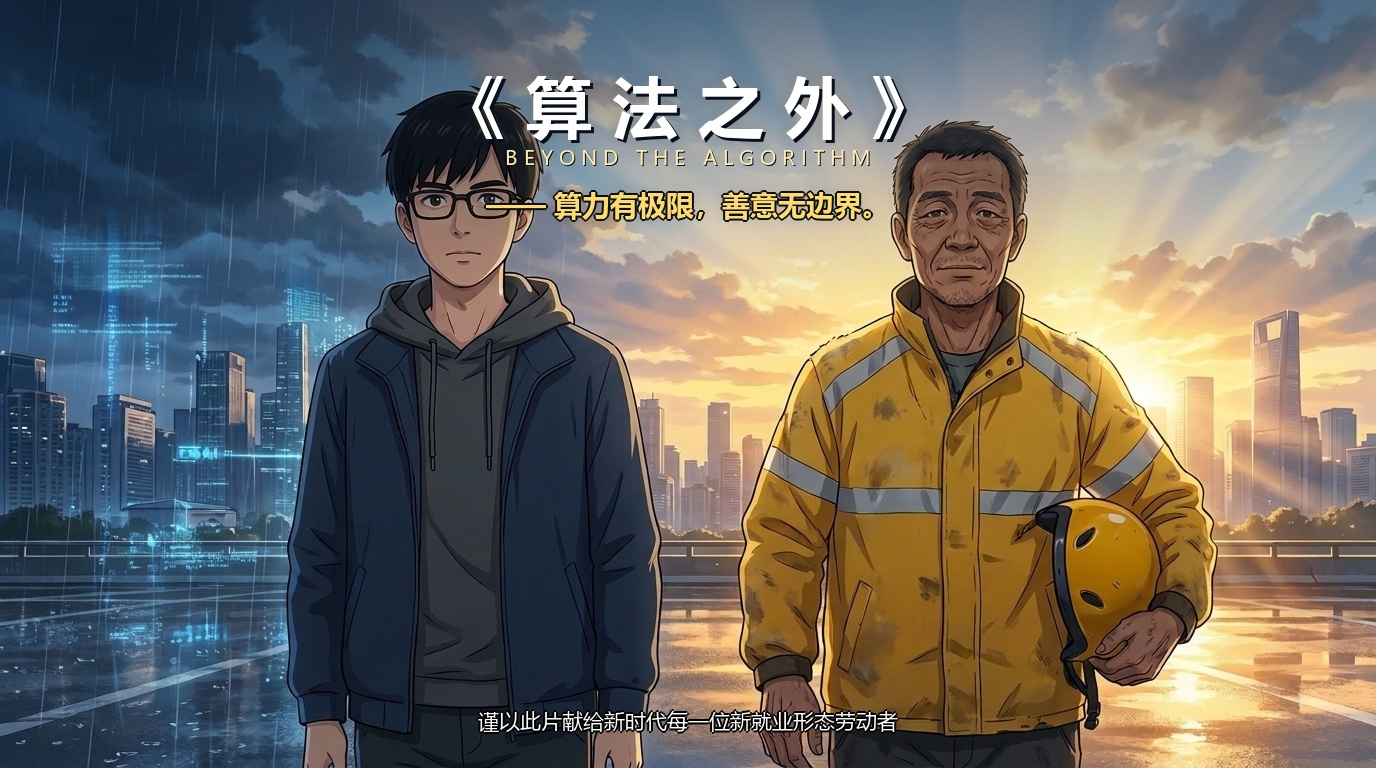
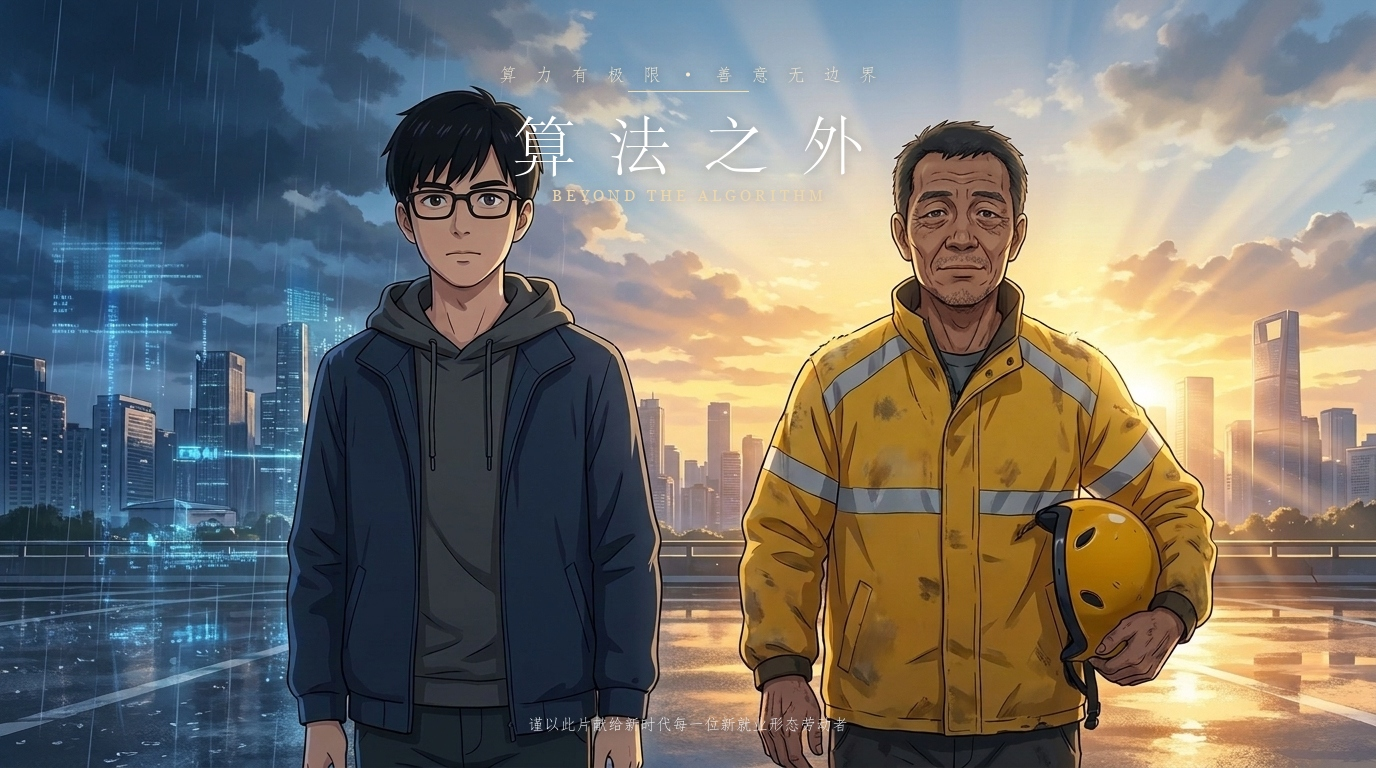
style: redesign movie poster with elegant cinematic typography and zero character occlusion

Changed region(s): [[0.25, 0.0, 1.0, 0.3125], [0.3438, 0.9062, 0.6562, 0.9688], [0.1562, 0.0312, 0.25, 0.125]]

diff --git a/build/compose_cinema_poster.py b/build/compose_cinema_poster.py
@@ -1,0 +1,99 @@
+# -*- coding: utf-8 -*-
+from PIL import Image, ImageDraw, ImageFont, ImageFilter
+import os
+
+bg_path = 'assets/images/poster_luyuan_laoliu_clean.jpg'
+out_path = 'assets/images/poster_luyuan_laoliu_final.jpg'
+
+im = Image.open(bg_path).convert('RGBA')
+width, height = im.size
+
+# High-end cinematic fonts
+# STSONG.TTF (华文宋体) or simsun.ttc (中易宋体)
+font_song_bold = 'C:/Windows/Fonts/STSONG.TTF' if os.path.exists('C:/Windows/Fonts/STSONG.TTF') else 'C:/Windows/Fonts/simsun.ttc'
+font_fangsong = 'C:/Windows/Fonts/simfang.ttf'
+font_en = 'C:/Windows/Fonts/georgia.ttf' if os.path.exists('C:/Windows/Fonts/georgia.ttf') else 'C:/Windows/Fonts/times.ttf'
+font_dengxian = 'C:/Windows/Fonts/Deng.ttf'
+
+# Font Sizes for refined cinematic scale
+# Characters should be dominant, title should be elegant, not overbearing
+f_slogan = ImageFont.truetype(font_fangsong, 18)
+f_title = ImageFont.truetype(font_song_bold, 64)
+f_en = ImageFont.truetype(font_en, 15)
+f_footer = ImageFont.truetype(font_fangsong, 16)
+
+# Texts
+slogan_text = "算  力  有  极  限  ·  善  意  无  边  界"
+title_text = "算  法  之  外"
+en_text = "B E Y O N D   T H E   A L G O R I T H M"
+footer_text = "谨以此片献给新时代每一位新就业形态劳动者"
+
+# Subtle top ambient sky gradient (very gentle, filmic contrast without looking dark)
+vignette = Image.new('RGBA', (width, height), (0, 0, 0, 0))
+v_draw = ImageDraw.Draw(vignette)
+for y in range(0, int(height * 0.35)):
+    # Soft blue-navy tint matching the sky clouds
+    alpha = int(45 * (1 - y / (height * 0.35)))
+    v_draw.line([(0, y), (width, y)], fill=(12, 22, 38, alpha))
+im = Image.alpha_composite(im, vignette)
+
+# Bounding boxes
+s_bbox = f_slogan.getbbox(slogan_text)
+s_w = s_bbox[2] - s_bbox[0]
+s_x = (width - s_w) // 2
+s_y = 65
+
+t_bbox = f_title.getbbox(title_text)
+t_w = t_bbox[2] - t_bbox[0]
+t_x = (width - t_w) // 2
+t_y = s_y + 36
+
+en_bbox = f_en.getbbox(en_text)
+en_w = en_bbox[2] - en_bbox[0]
+en_x = (width - en_w) // 2
+en_y = t_y + 86
+
+f_bbox = f_footer.getbbox(footer_text)
+f_w = f_bbox[2] - f_bbox[0]
+f_x = (width - f_w) // 2
+f_y = height - 52
+
+# Create Film Shadow & Light Bloom layer (No cheap black outlines!)
+bloom_layer = Image.new('RGBA', (width, height), (0, 0, 0, 0))
+bloom_draw = ImageDraw.Draw(bloom_layer)
+
+# Soft optical shadow (deep navy/slate, not pitch black)
+for r in [2, 4, 8, 12]:
+    bloom_draw.text((t_x, t_y + 2), title_text, font=f_title, fill=(10, 20, 35, 70))
+    bloom_draw.text((s_x, s_y + 1), slogan_text, font=f_slogan, fill=(10, 20, 35, 60))
+    bloom_draw.text((en_x, en_y + 1), en_text, font=f_en, fill=(10, 20, 35, 60))
+    bloom_draw.text((f_x, f_y + 1), footer_text, font=f_footer, fill=(10, 20, 35, 80))
+
+bloom_layer = bloom_layer.filter(ImageFilter.GaussianBlur(5))
+im = Image.alpha_composite(im, bloom_layer)
+
+# Crisp Text Drawing (Editorial Cinematic Treatment)
+draw = ImageDraw.Draw(im)
+
+# Slogan: Warm cream/champagne with tracked breathing room
+draw.text((s_x, s_y), slogan_text, font=f_slogan, fill=(245, 235, 215, 230))
+
+# Thin decorative line under slogan / above title (Classic film poster hallmark)
+line_len = 120
+line_y = s_y + 26
+draw.line([(width//2 - line_len//2, line_y), (width//2 + line_len//2, line_y)], fill=(245, 225, 180, 160), width=1)
+
+# Title: Pure luminous ivory white with slight warm sunrise ambient reflection
+draw.text((t_x, t_y), title_text, font=f_title, fill=(255, 255, 255, 255))
+
+# English Subtitle: Refined serif gold/sand tone
+draw.text((en_x, en_y), en_text, font=f_en, fill=(235, 215, 175, 240))
+
+# Bottom Dedication: Clean, unobtrusive, dignified
+draw.text((f_x, f_y), footer_text, font=f_footer, fill=(245, 248, 252, 220))
+
+# Convert and save
+final_im = im.convert('RGB')
+final_im.save(out_path, quality=98)
+print(f"Refined cinema poster saved to {out_path}")
+print(f"Title width: {t_w}px, centered at x={t_x}. Distance to edges: {t_x}px (safe clearance from both characters).")
